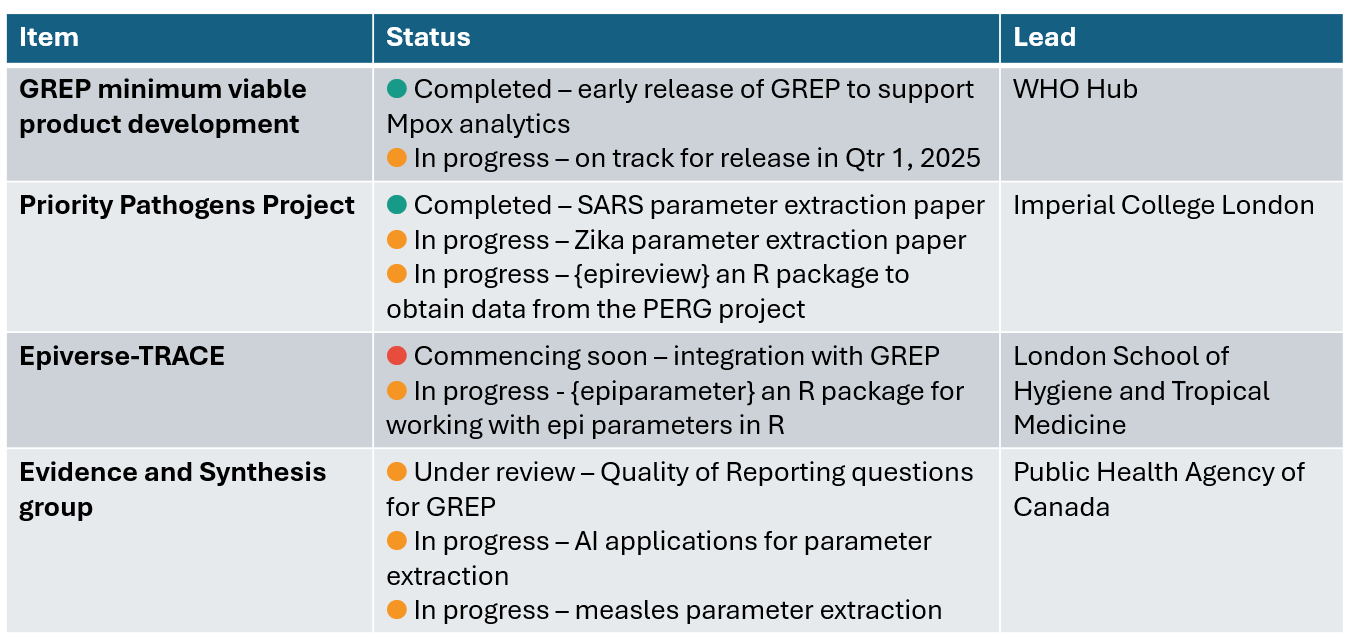
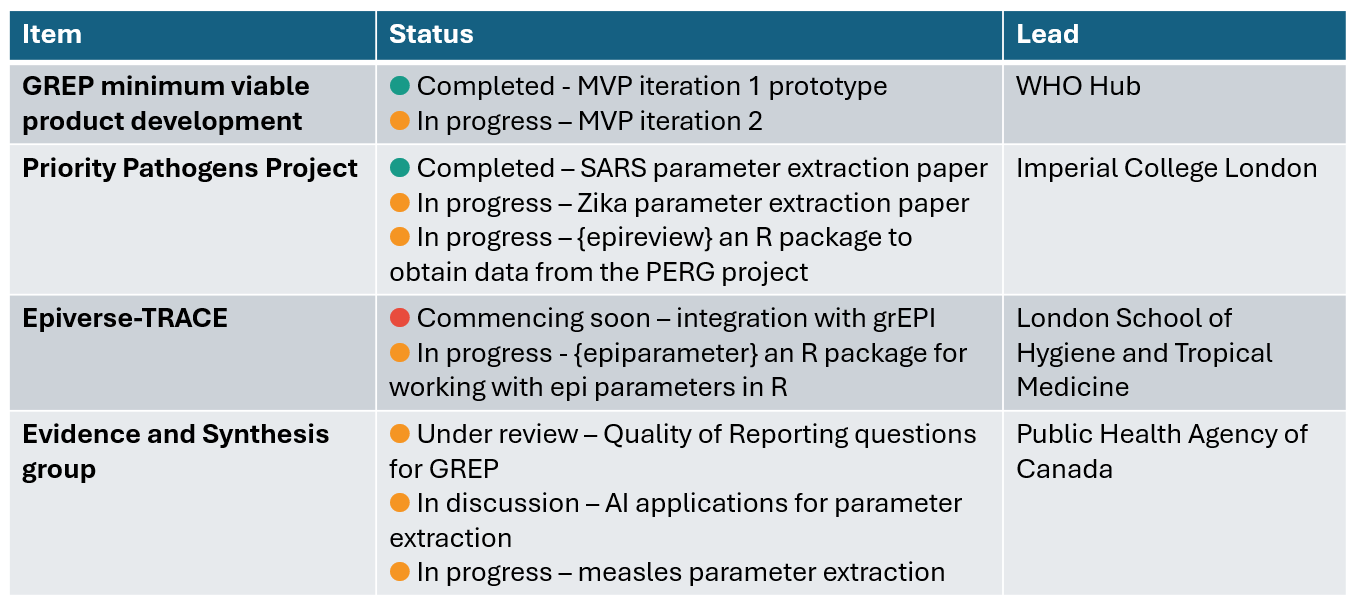
General updates and maintenance

Changed region(s): [[0.0, 0.0, 0.997, 0.9834]]

diff --git a/docs/pages/about.md b/docs/pages/about.md
@@ -27,7 +27,7 @@ The epidemiological parameters community has a membership of over 100 people, fr
  
  ● Want more details? [Work with us](https://github.com/WorldHealthOrganization/collaboratory-epiparameter-community/raw/main/materials/background/Workwithus.pdf)      
 
-### Current project status
+### Current project status as at April 2025
 
 <p>
   <img src="https://github.com/WorldHealthOrganization/collaboratory-epiparameter-community/raw/main/docs/images/Sep2024Status.png" width="800" align = "left">
